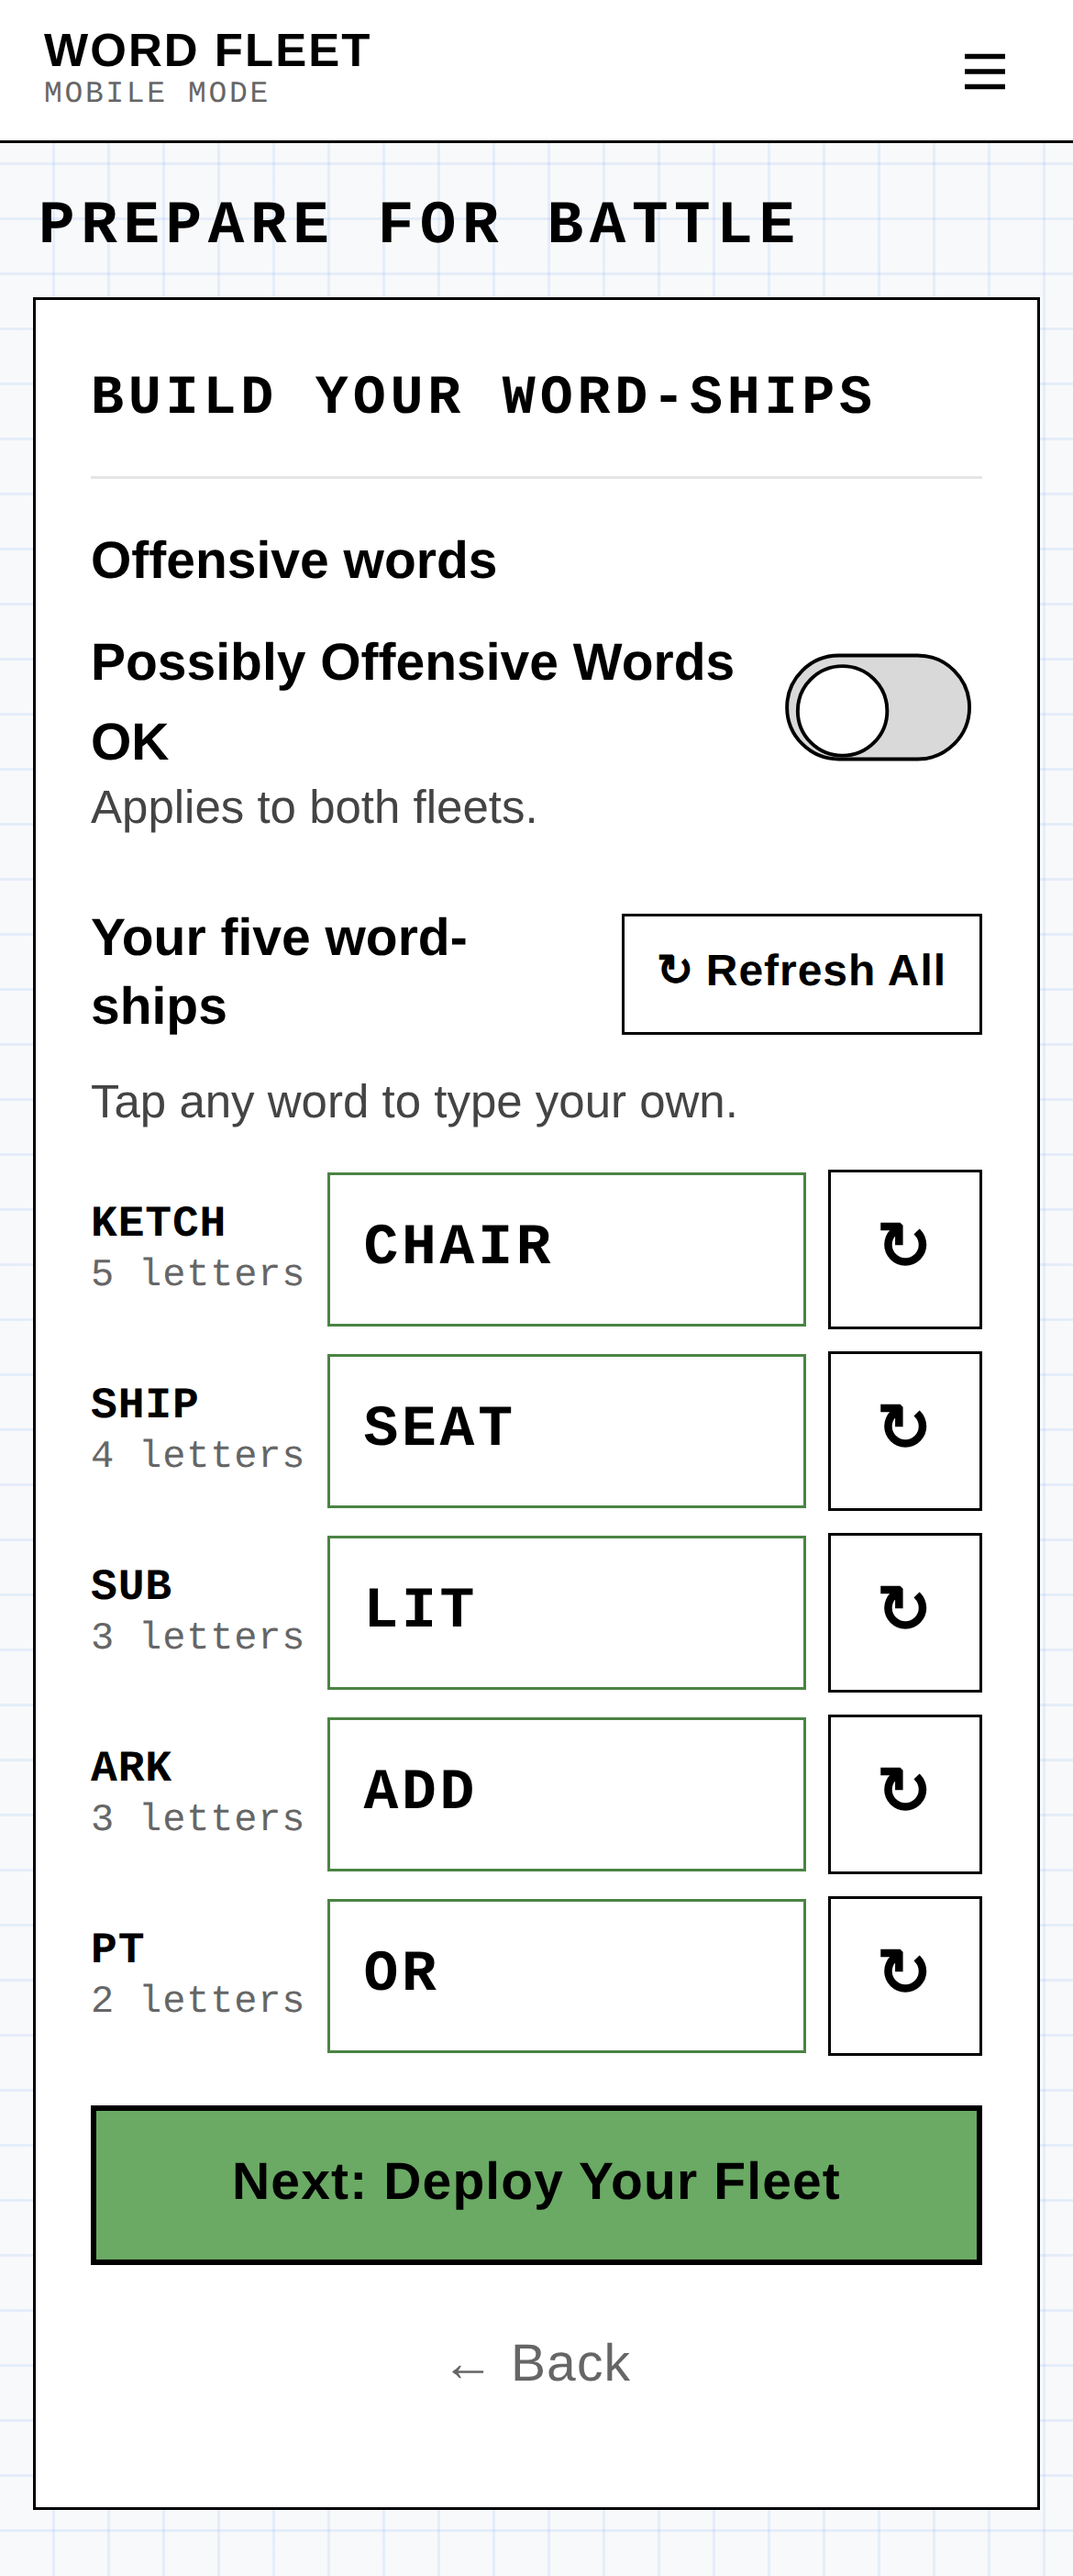
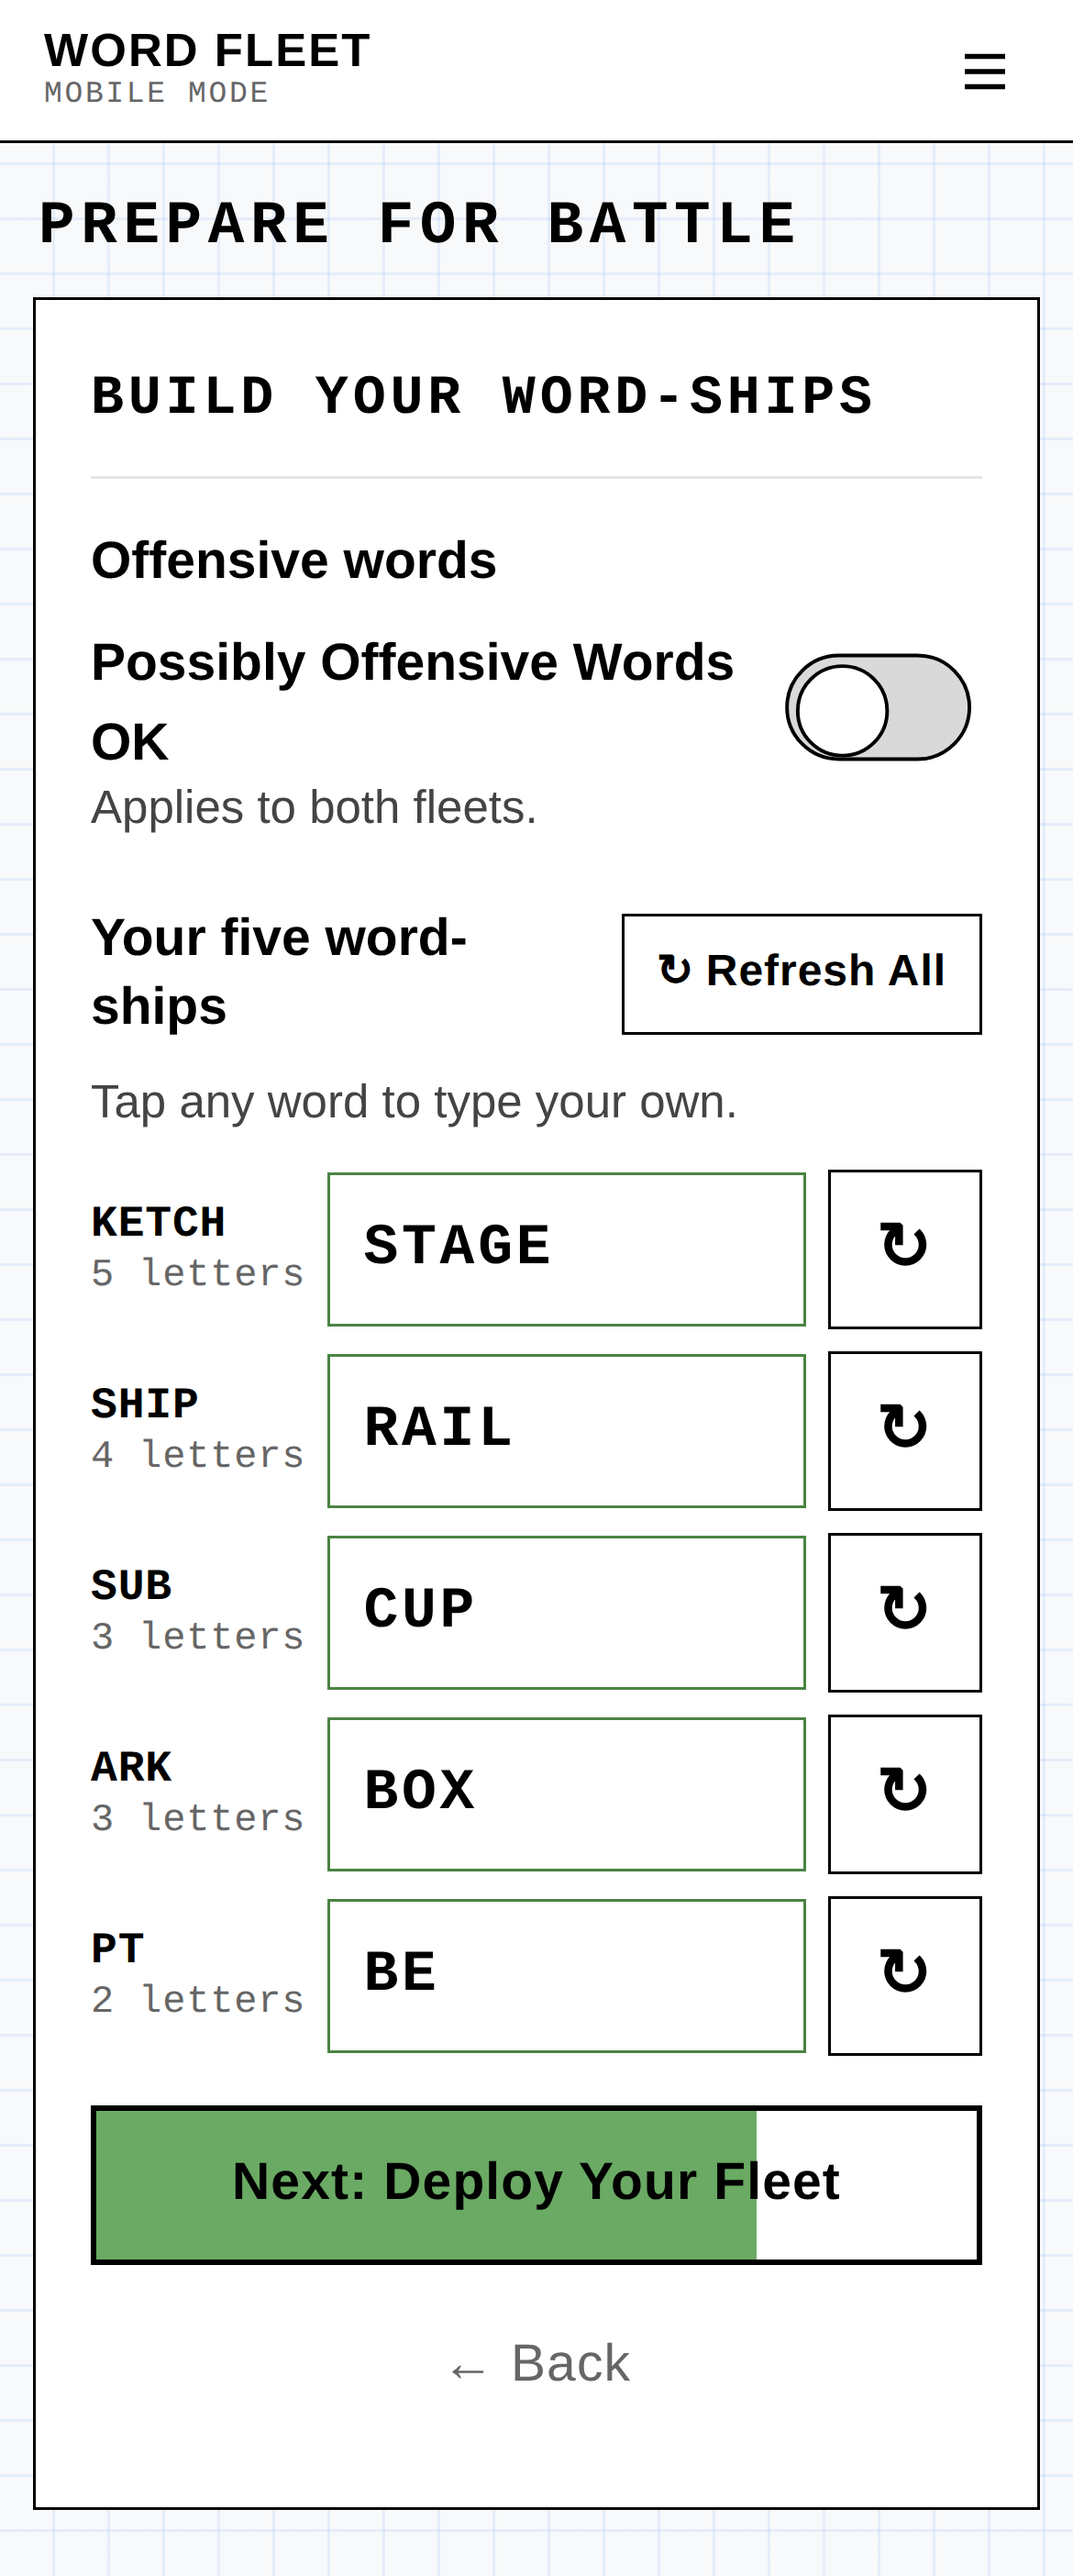
004 Deploy joins Prepare for Battle as step 4 of 4: same header, card and text sizes; progress bars 25/50/75/100%
Claude-Session: https://claude.ai/code/session_013sUGAAEC45a1EJCrQWVj9Q

diff --git a/mobile/index.html b/mobile/index.html
@@ -18,7 +18,7 @@
   <link rel="preconnect" href="https://fonts.gstatic.com" crossorigin>
   <link href="https://fonts.googleapis.com/css2?family=Courier+Prime:wght@400;700&family=Inter:wght@400;500;600;700&display=swap" rel="stylesheet">
   <!-- Bump ?v= on every release (and CACHE in sw.js) so a new page never runs old code. -->
-  <link rel="stylesheet" href="app.css?v=50">
+  <link rel="stylesheet" href="app.css?v=51">
 </head>
 <body>
 
@@ -65,7 +65,7 @@
         <button class="btn btn--sq" id="btnRollName" type="button" aria-label="Random fleet name">&#x1F3B2;</button>
       </div>
 
-      <button class="btn btn--wide btn--next btn--progress" style="--progress: 33%" id="btnToOpponent" type="button" aria-label="Next: Choose Your Opponent (step 1 of 3 done)">Next: Choose Your Opponent</button>
+      <button class="btn btn--wide btn--next btn--progress" style="--progress: 25%" id="btnToOpponent" type="button" aria-label="Next: Choose Your Opponent (step 1 of 4 done)">Next: Choose Your Opponent</button>
       <a class="btn btn--ghost btn--wide" id="lnkHome" href="../">&larr; Back</a>
     </div>
   </section>
@@ -83,7 +83,7 @@
       </div>
       <p class="hint" id="levelHint"></p>
 
-      <button class="btn btn--wide btn--next btn--progress" style="--progress: 67%" id="btnToWords" type="button" aria-label="Next: Build Your Word-Ships (step 2 of 3 done)">Next: Build Your Word-Ships</button>
+      <button class="btn btn--wide btn--next btn--progress" style="--progress: 50%" id="btnToWords" type="button" aria-label="Next: Build Your Word-Ships (step 2 of 4 done)">Next: Build Your Word-Ships</button>
       <button class="btn btn--ghost btn--wide" id="btnBackToSetup" type="button">&larr; Back</button>
     </div>
   </section>
@@ -105,18 +105,23 @@
       <div id="wordList"></div>
       <p class="note" id="setupNote"></p>
 
-      <button class="btn btn--wide btn--next btn--progress" style="--progress: 100%" id="btnToDeploy" type="button">Next: Deploy Your Fleet</button>
+      <button class="btn btn--wide btn--next btn--progress" style="--progress: 75%" id="btnToDeploy" type="button" aria-label="Next: Deploy Your Fleet (step 3 of 4 done)">Next: Deploy Your Fleet</button>
       <button class="btn btn--ghost btn--wide" id="btnBackToOpponent" type="button">&larr; Back</button>
     </div>
   </section>
 
   <!-- ============ 004-MOBILE-DEPLOY (screen name: "004-MOBILE-DEPLOY") ============ -->
-  <section class="screen" id="scrDeploy" data-screen="004-MOBILE-DEPLOY">
-    <div class="card card--flush">
+  <section class="screen setup-big" id="scrDeploy" data-screen="004-MOBILE-DEPLOY">
+    <h1 class="page-head">Prepare for Battle</h1>
+    <div class="card card--deploy">
+      <div class="card-title">Deploy Your Fleet</div>
       <div class="grid-label">DEFENSE GRID <span id="deployCount">0 of 5 deployed</span></div>
       <div class="grid" id="gridDeploy"></div>
-    </div>
-    <div class="card">
+
+      <div class="section-head">
+        <span class="label label--say">Pick a ship, then tap a square</span>
+      </div>
+      <p class="hint hint--label">Drag to move. Double-tap its first letter to turn it. Tap once to send it back to port.</p>
       <div class="deploy-head">
         <div class="seg seg--sm" id="segDir">
           <button type="button" data-v="H" class="is-on">Across &rarr;</button>
@@ -128,9 +133,9 @@
         </div>
       </div>
       <div class="roster" id="roster"></div>
-      <p class="hint">Pick a word-ship, then tap its first square. Ships read left-to-right or top-to-bottom. They may touch but never overlap. Drag a deployed ship to move it. Double-tap its first letter to turn it; tap it once to pull it back.</p>
-      <button class="btn btn--primary btn--wide" id="btnDeployDone" type="button" disabled>Confirm Deployment</button>
-      <button class="btn btn--ghost btn--wide" id="btnDeployBack" type="button">&larr; Change Words</button>
+
+      <button class="btn btn--wide btn--next btn--progress" style="--progress: 75%" id="btnDeployDone" type="button" disabled>Confirm Deployment</button>
+      <button class="btn btn--ghost btn--wide" id="btnDeployBack" type="button">&larr; Back</button>
     </div>
   </section>
 
@@ -220,7 +225,7 @@
 
 <div class="toast" id="toast" hidden></div>
 
-<script src="audio.js?v=50"></script>
-<script src="app.js?v=50"></script>
+<script src="audio.js?v=51"></script>
+<script src="app.js?v=51"></script>
 </body>
 </html>

diff --git a/mobile/app.css b/mobile/app.css
@@ -407,7 +407,7 @@ button.mf { font: inherit; color: var(--ink); width: 100%; padding: 3px 0 2px; c
 .check--top { margin-top: 0; }
 .btn--sm-gap { margin-top: 10px; min-height: 40px; font-size: 14px; }
 
-/* --- Setup screens 001-003: large, easy-to-read text (elderly / phone friendly) --- */
+/* --- Setup screens 001-004: large, easy-to-read text (elderly / phone friendly) --- */
 .setup-big .card { padding: 22px 20px; }
 .setup-big .card-title { font-size: 17px; letter-spacing: 0.08em; padding-bottom: 12px; margin-bottom: 18px; }
 .setup-big .label--say { font-family: var(--sans); font-size: 19px; font-weight: 700; text-transform: none; letter-spacing: 0; line-height: 1.35; margin: 22px 0 10px; }
@@ -428,7 +428,7 @@ button.mf { font: inherit; color: var(--ink); width: 100%; padding: 3px 0 2px; c
 .setup-big .input { letter-spacing: 0.06em; }
 .setup-big #inFleet { font-size: 18px; letter-spacing: 0.02em; padding: 10px; }
 
-/* "Prepare for Battle" header above the card on every setup screen (001-003) */
+/* "Prepare for Battle" header above the card on every setup screen (001-004) */
 .page-head { font-family: var(--mono); font-size: 22px; font-weight: 700; letter-spacing: 0.1em; text-transform: uppercase; line-height: 1.2; margin: 6px 2px 12px; color: var(--ink); }
 .setup-big .card-title { font-size: 20px; }
 .setup-big .label--say:first-of-type, .setup-big .card-title + .label--say { margin-top: 0; }
@@ -437,7 +437,7 @@ button.mf { font: inherit; color: var(--ink); width: 100%; padding: 3px 0 2px; c
 .switch-row--big { font-size: 19px; font-weight: 700; gap: 16px; min-height: 56px; }
 .switch-row--big .switch { transform: scale(1.3); transform-origin: right center; margin-right: 4px; }
 
-/* Next buttons on 001-003 double as a progress bar: green fills left to right (33%, 67%, 100%). */
+/* Next buttons on 001-003 double as a progress bar: green fills left to right (25%, 50%, 75%, then 75-100% on Deploy). */
 .btn--progress { background: linear-gradient(to right, var(--green) var(--progress, 0%), var(--paper) var(--progress, 0%)); border-width: 2px; }
 .btn--progress:active:not(:disabled) { background: var(--green-dark); color: var(--ink); }
 
@@ -451,3 +451,21 @@ button.mf { font: inherit; color: var(--ink); width: 100%; padding: 3px 0 2px; c
 .setup-big .word-class { letter-spacing: 0.02em; }
 /* the dictionary message takes no room until there is one */
 .setup-big .note:empty { min-height: 0; margin: 0; }
+
+/* 004 Deploy as step 4 of Prepare for Battle */
+.setup-big .card--deploy { padding: 18px 12px; }
+.setup-big .card--deploy .card-title, .setup-big .card--deploy .section-head, .setup-big .card--deploy .hint,
+.setup-big .card--deploy .deploy-head, .setup-big .card--deploy .roster, .setup-big .card--deploy > .btn { margin-left: 6px; margin-right: 6px; }
+.setup-big .card--deploy > .btn--wide { width: calc(100% - 12px); }
+.setup-big .card--deploy .grid-label { font-size: 14px; margin-bottom: 8px; }
+.setup-big .deploy-head .seg button { min-height: 48px; font-size: 16px; padding: 6px 12px; }
+.setup-big .deploy-head .btn--sm { min-height: 48px; font-size: 16px; padding: 6px 12px; }
+.setup-big .ship { min-height: 54px; }
+.setup-big .ship-class { font-size: 14px; min-width: 56px; }
+.setup-big .ship-word { font-size: 21px; }
+.setup-big .ship-at { font-size: 15px; }
+.btn--progress:disabled { opacity: 0.7; }
+.setup-big .deploy-head { flex-direction: column; gap: 8px; }
+.setup-big .deploy-head .seg, .setup-big .deploy-head .row { display: flex; width: 100%; gap: 8px; }
+.setup-big .deploy-head .seg { gap: 0; }
+.setup-big .deploy-head .seg button, .setup-big .deploy-head .row .btn { flex: 1; }

diff --git a/mobile/app.js b/mobile/app.js
@@ -452,7 +452,7 @@
   // DEPLOY
   // ------------------------------------------------------------
   function renderDeploy() {
-    setBar('Deploy', 'is-quiet');
+    setBar(null);
     var ships = S.me.ships;
     var placed = ships.filter(function (s) { return s.r != null; }).length;
     $('deployCount').textContent = placed + ' of 5 deployed';
@@ -470,6 +470,8 @@
         '<span class="ship-at">' + (s.r != null ? coord(s.r, s.c) + (s.dir === 'H' ? ' →' : ' ↓') : 'in port') + '</span></button>';
     }).join('');
     $('btnDeployDone').disabled = placed < 5;
+    // Step 4 of 4: the progress bar fills from 75% to 100% as ships are deployed.
+    $('btnDeployDone').style.setProperty('--progress', (75 + placed * 5) + '%');
   }
 
   // Pull a deployed ship back into port and select it.
@@ -1201,7 +1203,7 @@
     if (!S.wordsEdited) S.me.words = S.me.words.map(function (w, i) { return inDictionary(w) ? w : randomWordFor(i, S.me.words); });
     save(); renderSetup();
   });
-  // Prepare for Battle runs in three steps: 001 name/language, 002 opponent, 003 words.
+  // Prepare for Battle runs in four steps: 001 name/language, 002 opponent, 003 words, 004 deploy.
   function setupStep(step) {
     if (step !== 'setup') {
       var name = (S.me.name || '').trim().toUpperCase().replace(/\s+/g, ' ');

diff --git a/mobile/sw.js b/mobile/sw.js
@@ -1,11 +1,11 @@
 /* Word Fleet service worker: the whole game works offline once loaded. */
-var CACHE = 'wordfleet-v50';
+var CACHE = 'wordfleet-v51';
 var SHELL = [
   './',
   'index.html',
-  'app.css?v=50',
-  'app.js?v=50',
-  'audio.js?v=50',
+  'app.css?v=51',
+  'app.js?v=51',
+  'audio.js?v=51',
   'manifest.webmanifest',
   'icons/icon-180.png',
   'icons/icon-192.png',

diff --git a/mobile/screens/README.md b/mobile/screens/README.md
@@ -8,7 +8,7 @@ referred to by name when asking for changes. Each has a reference snapshot in th
 | Name | In the code | Snapshot | What it is |
 | --- | --- | --- | --- |
 | **MOBILE-HOME** *(parked)* | `<section id="scrMobileHome" data-screen="MOBILE-HOME">`, `SCREENS.home` | `mobile-home.png` | **Parked, not shown to players.** Kept for later use. Was the first screen: WORD FLEET title, Mobile Mode tag, blurb, New Battle and Rules of Engagement buttons. The app now opens on 001-MOBILE-PREPARE. |
-| **001-MOBILE-PREPARE** | `<section id="scrSetup" data-screen="001-MOBILE-PREPARE">`, `SCREENS.setup` | `001-mobile-prepare.png` | **First screen players see.** Card title "Welcome Captain!". "Choose your language", then "Roll the die or type your own fleet name" (with dice). Changing language rolls a new fleet name in that language (`dictionaries/fleet-names.json`). Button "Next: Choose Your Opponent", filled 33% green as a progress bar. "← Back" goes to the Word Fleet home page (`../`, the site's `index.html`). Screens 001-003 share one look: a "PREPARE FOR BATTLE" page header above the card (`.page-head`), the step's card title, plain-language section headers (`.label--say`), and large, easy-to-read text (`.setup-big`). |
-| **002-MOBILE-OPPONENT** | `<section id="scrOpponent" data-screen="002-MOBILE-OPPONENT">`, `SCREENS.opponent` | `002-mobile-opponent.png` | Card title "Choose Your Opponent", section "Pick the AI Captain you'll face": the three AI Captains (Captain Rubber Duck, Captain Steady, Captain Lexicon), each with a short character sketch. Button "Next: Build Your Word-Ships", filled 67% green. |
-| **003-MOBILE-WORD-SHIPS** | `<section id="scrWords" data-screen="003-MOBILE-WORD-SHIPS">`, `SCREENS.words` | `003-mobile-word-ships.png` | Card title "Build Your Word-Ships". Section "Offensive words": a "Possibly Offensive Words OK" on/off switch, "Applies to both fleets." Section "Your five word-ships" (Refresh All at the right end of its header): "Tap any word to type your own." The five word-ships arrive drawn for your opponent and are editable, each with a ↻ redraw. A typed word is checked against the dictionary when its box loses focus, and every word is checked again on "Next: Deploy Your Fleet" (filled 100% green). |
-| **004-MOBILE-DEPLOY** | `<section id="scrDeploy" data-screen="004-MOBILE-DEPLOY">`, `SCREENS.deploy` | `004-mobile-deploy.png`, `004-mobile-deploy-placed.png` | Place the five word-ships on your Defense Grid: Across/Down, Scatter, Clear, the roster of ships, Confirm Deployment, Change Words. Drag a ship to move it; double-tap its first letter to turn it. |
+| **001-MOBILE-PREPARE** | `<section id="scrSetup" data-screen="001-MOBILE-PREPARE">`, `SCREENS.setup` | `001-mobile-prepare.png` | **First screen players see.** Card title "Welcome Captain!". "Choose your language", then "Roll the die or type your own fleet name" (with dice). Changing language rolls a new fleet name in that language (`dictionaries/fleet-names.json`). Button "Next: Choose Your Opponent", filled 25% green as a progress bar. "← Back" goes to the Word Fleet home page (`../`, the site's `index.html`). Screens 001-004 share one look: a "PREPARE FOR BATTLE" page header above the card (`.page-head`), the step's card title, plain-language section headers (`.label--say`), and large, easy-to-read text (`.setup-big`). |
+| **002-MOBILE-OPPONENT** | `<section id="scrOpponent" data-screen="002-MOBILE-OPPONENT">`, `SCREENS.opponent` | `002-mobile-opponent.png` | Card title "Choose Your Opponent", section "Pick the AI Captain you'll face": the three AI Captains (Captain Rubber Duck, Captain Steady, Captain Lexicon), each with a short character sketch. Button "Next: Build Your Word-Ships", filled 50% green. |
+| **003-MOBILE-WORD-SHIPS** | `<section id="scrWords" data-screen="003-MOBILE-WORD-SHIPS">`, `SCREENS.words` | `003-mobile-word-ships.png` | Card title "Build Your Word-Ships". Section "Offensive words": a "Possibly Offensive Words OK" on/off switch, "Applies to both fleets." Section "Your five word-ships" (Refresh All at the right end of its header): "Tap any word to type your own." The five word-ships arrive drawn for your opponent and are editable, each with a ↻ redraw. A typed word is checked against the dictionary when its box loses focus, and every word is checked again on "Next: Deploy Your Fleet" (filled 75% green). |
+| **004-MOBILE-DEPLOY** | `<section id="scrDeploy" data-screen="004-MOBILE-DEPLOY">`, `SCREENS.deploy` | `004-mobile-deploy.png`, `004-mobile-deploy-placed.png` | Step 4 of 4 of Prepare for Battle, same look as 001-003. Card title "Deploy Your Fleet": Defense Grid, section "Pick a ship, then tap a square" ("Drag to move. Double-tap its first letter to turn it. Tap once to send it back to port."), Across/Down, Scatter/Clear, the roster, "Confirm Deployment" (progress bar fills 75% → 100% as ships are placed), Back. |
